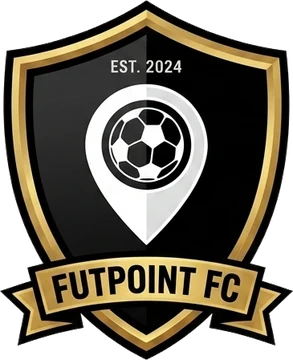
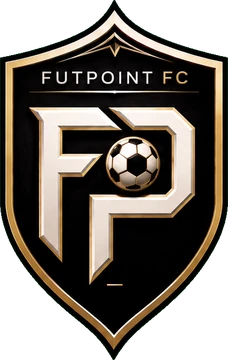
Futpoint FC de cara nova: escudo, mascote e camisa novos (arte do dono)
O dono do Futpoint FC (gfpicolo13, SOCIO n.27 — nao e batismo, nao tira o lugar de
ninguem) mandou a prancha refeita. Recortada com o script novo e cadastrada nos
lugares de sempre. AINDA NAO PUBLICADO NA MAIN: esperando o OK visual do Diego.

O QUE ENTROU
- escudo 228x360 (17,7 KB) — saiu o alfinete de mapa, entrou o brasao preto/dourado
  com o monograma FP em prata;
- mascote 285x440 (39,0 KB) — o Pontinho refeito, de bone virado e pe na bola;
  TOTAL 56,7 KB dos 75 KB do teto;
- camisa da Loja como futpoint-camisa-v2.webp. O NOME MUDOU DE PROPOSITO: public/
  tem endereco fixo, sem hash, e quem ja abriu a Loja continuaria vendo a velha
  pra sempre (a licao do Neymarzetti, 16/09). O npm run salao avisa exatamente isso.

MANTO REMEDIDO NA CAMISA NOVA
Preto #0C0909 e dourado #BE8F47: a arte nova CONFIRMOU a cor que o jogo ja usava
(#181818/#B89040, com o preto levantado de proposito — preto de cena escura na
listra fininha do jogo le como buraco). O branco da faixa central foi remedido pra
#EAE2E0 (era #FFFFFF chutado em 19/08).
E o MANTO_CONTAS ganhou a linha do e-mail dele, que faltava desde sempre — e por
isso o npm run batismos cobrava "manto medido" no Futpoint. Agora: 45 completos.

MARCA DE TERCEIRO QUE SAIU
A mascote vinha com o simbolo da Nike nas duas chuteiras. E marca de outra empresa
e ia DENTRO do arquivo que todo jogador baixa (e que carimba o gol), entao saiu
(scripts/tira-marcas-futpoint.py). Ficou a chuteira preta, o friso e as travas
[…]

diff --git a/src/escalacao/manto.ts b/src/escalacao/manto.ts
@@ -30,6 +30,17 @@ export const MANTO_CONTAS: Record<string, [string, string]> = {
   //    metade iluminada), que é o tom de areia do pano — o do escudo é mais claro
   //    porque ali é letra. Os dois medidos, nenhum chutado.
   'lucasigorbortoliniii@hotmail.com': ['#04512A', '#E4CDA6'],
+  // 📍 Futpoint FC — PRETO e DOURADO. O manto dele vivia só na lista pública
+  // (`batismos.ts`), e por isso o `npm run batismos` cobrava "manto medido" desde
+  // sempre: aqui a chave é o E-MAIL, e é esta lista que decora a tela do PRÓPRIO
+  // dono. Em 19/09 o dono mandou a prancha nova e eu REMEDI na camisa dela:
+  // preto #0C0909 e dourado #BE8F47 — ou seja, a arte nova CONFIRMOU a cor que o
+  // jogo já usava. Fica #181818/#B89040 (o mesmo par de `batismos.ts`, que o
+  // `npm run batismos` exige igual): o preto é levantado de propósito, porque
+  // #0C0909 é preto de cena escura e na listra fininha do jogo lê como buraco.
+  // ⚠ O BANCO GANHA DO CÓDIGO: `meuManto()` lê `esc_socios` primeiro. Se a linha
+  //    dele no banco tiver outra cor, é ela que ele vê — conferir lá também.
+  'gfpicolo13@gmail.com': ['#181818', '#B89040'],
   'luizguilhermeps@hotmail.com': ['#F6BB06', '#053F42'], // 🧦 Jurubeba FC — amarelo e verde-petróleo, MEDIDOS na camisa que o dono mandou (02/09)
   'caiohcris@gmail.com': ['#084C2C', '#F3F1EC'], // 🐟 Bagres 1993 — verde-mato e branco, MEDIDOS na camisa que o dono mandou (mediana dos verdes e dos brancos do manto, 06/09). O DOURADO é a 3ª cor, em MANTO_TRI: é a moldura, a coroa e o louro do escudo. ❤ São Paulo (o Diego confirmou em 19/09)
   'guiouriques@hotmail.com': ['#2186D9', '#080809'], // 🪟 Vidraceiro FC — azul-vidro e preto, MEDIDOS na camisa que o dono mandou (mediana dos azuis e dos pretos do manto, 05/09). O BRANCO é a 3ª cor, em MANTO_TRI: a camisa é listrada azul/preto com filete branco
@@ -176,7 +187,7 @@ const MANTO_TRI: Record<string, string> = {
   toka: '#013088', // 🧢 Tôka10 — 3ª cor AZUL: a touca (que é o escudo) e o calção, medidos na arte dele (16/09)
   piloto_bola: '#FFFFFF', // 🏎 Ferrari SC (adriano) — 3ª cor BRANCA (vermelho/preto/branco)
   cobra_arruda: '#B91515', // 🐍 Tricolor do Arruda FC (Geovany Souza) — 3ª cor VERMELHA (preto/branco/vermelho). 09/09: MEDIDA na camisa nova que o dono mandou (era #C2001E chutado em 16/08); preto #110D0E e branco #F5F2EF foram pro banco (esc_socios)
-  futpoint_bola: '#FFFFFF', // 📍 Futpoint FC (gfpicolo13) — 3ª cor BRANCA (preto/dourado/branco, medidas na camisa dele, 19/08)
+  futpoint_bola: '#EAE2E0', // 📍 Futpoint FC (gfpicolo13) — 3ª cor BRANCA: a faixa do meio da camisa. REMEDIDA na prancha nova do dono (19/09; era #FFFFFF de 19/08) — branco de pano, não branco de papel
   saoluiz_pitbull: '#D9D9D8', // 🐶 São Luiz FC — 3ª cor BRANCA, REMEDIDA na camisa NOVA do dono (26% do manto, 16/09; era #FFFFFF chutado em 21/08)
   bagres_bagre: '#D9A95D', // 🐟 Bagres 1993 (caiohcris) — 3ª cor DOURADA: a moldura, a coroa e o louro do escudo (medidas na arte dele, 06/09)
   vidraceiro_vidro: '#FFFFFF', // 🪟 Vidraceiro FC (guiouriques) — 3ª cor BRANCA: a camisa é listrada azul/preto com filete branco (medidas na arte dele, 05/09)

diff --git a/src/escalacao/mascotes.tsx b/src/escalacao/mascotes.tsx
@@ -303,8 +303,15 @@ export const MASCOTES: Record<string, ReactNode> = {
   marreco_rei: (
     <img src={marrecoMascoteImg} height={176} width={Math.round(176 * 321 / 440)} alt="O Rei do Cais — Marreco FC" style={{ flex: 'none', display: 'block', objectFit: 'contain' }} />
   ),
+  // 🔁 O PONTINHO GANHOU ARTE NOVA em 19/09 (mesma personagem, desenho refeito
+  // pelo dono): bola de boné virado, moletom preto e dourado, joinha e a plaquinha
+  // de play na mão, com o pé em cima da bola.
+  // ⚠ SAIU DA ARTE o símbolo da NIKE das duas chuteiras (`scripts/tira-marcas-
+  //    futpoint.py`): é marca de outra empresa e ia dentro do arquivo que TODO
+  //    jogador baixa. O que ficou é a chuteira preta, o friso e as travas douradas.
+  // 📏 285×440, 39,0 KB. mascote_key segue "futpoint_bola".
   futpoint_bola: (
-    <img src={futpointMascoteImg} height={176} width={Math.round(176 * 310 / 440)} alt="O Pontinho — Futpoint FC" style={{ flex: 'none', display: 'block', objectFit: 'contain' }} />
+    <img src={futpointMascoteImg} height={176} width={Math.round(176 * 285 / 440)} alt="O Pontinho — Futpoint FC" style={{ flex: 'none', display: 'block', objectFit: 'contain' }} />
   ),
   bigao: (
     <img src={bigaoMascoteImg} height={176} width={Math.round(176 * 319 / 440)} alt="O Bigão — Crias do Bigão" style={{ flex: 'none', display: 'block', objectFit: 'contain' }} />

diff --git a/src/escalacao/escudos.tsx b/src/escalacao/escudos.tsx
@@ -566,8 +566,14 @@ const marrecoEscudoRender = (size: number) => (
   <img src={marrecoEscudoImg} height={size} width={Math.round(size * 241 / 360)} alt="Marreco FC" style={{ flex: 'none', display: 'block', objectFit: 'contain' }} />
 )
 
+// 🔁 ESCUDO NOVO em 19/09: o dono mandou a prancha refeita (escudo, mascote e
+// camisa). Saiu o alfinete de mapa e entrou o brasão preto/dourado com o
+// monograma "FP" em prata e a bolinha no meio do P. O arquivo é o MESMO endereço
+// (`futpoint-escudo.webp`) porque arte de dentro do jogo leva carimbo do Vite —
+// cache não segura. A do SALÃO é que precisou de nome novo (ver salao-camisas).
+// 📏 228×360, 17,7 KB — a largura sai da proporção REAL (antes era 293×360).
 const futpointEscudoRender = (size: number) => (
-  <img src={futpointEscudoImg} height={size} width={Math.round(size * 293 / 360)} alt="Futpoint FC" style={{ flex: 'none', display: 'block', objectFit: 'contain' }} />
+  <img src={futpointEscudoImg} height={size} width={Math.round(size * 228 / 360)} alt="Futpoint FC" style={{ flex: 'none', display: 'block', objectFit: 'contain' }} />
 )
 
 // 🤡🟡⚫ Nata de SP (pedrinhocamisa8) — ex-Paris São Geraldo, Série D. Escudo

diff --git a/src/escalacao/salao-camisas.ts b/src/escalacao/salao-camisas.ts
@@ -19,7 +19,10 @@ export const CAMISAS_SALAO: Record<string, string> = {
   "Corporação Capsule FC": "capsule-camisa.webp",
   "Fala D10": "falad10-camisa.webp",
   "Final Boss FC": "finalboss-camisa.webp",
-  "Futpoint FC": "futpoint-camisa.webp",
+  // 🔁 19/09: camisa NOVA (o dono refez a prancha). O nome do arquivo mudou de
+  // propósito — endereço fixo é cache de navegador, e quem já tinha aberto a Loja
+  // continuaria vendo a camisa velha pra sempre. É o aviso que o `npm run salao` dá.
+  "Futpoint FC": "futpoint-camisa-v2.webp",
   "Marreco FC": "marreco-camisa-v1.webp",
   "Rei da Bola FC": "reidabola-camisa-v1.webp",
   "Murriz FC": "murriz-camisa-v1.webp",

diff --git a/scripts/recorta-prancha-chroma.py b/scripts/recorta-prancha-chroma.py
@@ -1,0 +1,90 @@
+#!/usr/bin/env python3
+# ─── ✂🟩 RECORTE DE PRANCHA SOBRE FUNDO VERDE (chroma) ─────────────────────
+#
+# Os donos mandam a arte do clube como UMA prancha só — escudo + mascote +
+# camisa lado a lado — e cada vez mais sobre FUNDO VERDE CHROMA (#01F748), não
+# transparente. Este é o recorte genérico; nasceu do `recorta-marreco.py`
+# (19/09) e virou script de todo mundo no Futpoint FC, no mesmo dia.
+#
+# O que ele faz, e por quê cada passo existe:
+#  1. 🎯 ALVO SÓ O VERDE CHROMA — claro (g > 150) e absurdamente mais verde que
+#     vermelho/azul. Clube verde-escuro (o Marreco é) e grama passam longe.
+#     Se um dia chegar clube com verde CLARO no desenho, baixar o corte NÃO é a
+#     saída: aí é máscara na mão. Este script avisa se o fundo detectado é menos
+#     de 20% do quadro (sinal de que o chroma não é o que ele pensa).
+#  2. 🕳 APAGA O VERDE PRESO TAMBÉM (entre pernas, alças, vãos fechados). Inundar
+#     só a partir da borda deixou um BLOCO VERDE entre as pernas do marreco —
+#     o mesmo erro do Skyy FC (23/08), o retângulo entre as pernas da águia.
+#  3. 💨 TIRA O DERRAME: a franja esverdeada que o chroma deixa na borda do
+#     desenho (some no branco da bola e no dourado, que é onde mais aparece).
+#  4. ✂ SEPARA AS PEÇAS POR DESENHO, não por régua: as N maiores ILHAS são os
+#     corpos, e cada pedacinho solto (o balão, a bola no pé, os riscos de
+#     expressão) vai pro corpo que o cobre na horizontal. Cortar em faixas fixas
+#     levava um naco do escudo junto com a mascote.
+#  5. 📏 Mede a caixa com alfa ≥ 40 e pelo menos 3 px na linha/coluna: o bbox CRU
+#     MENTE (erro do Papão, 23/08) — poeira de alfa devolve o arquivo inteiro.
+#
+# uso: python3 scripts/recorta-prancha-chroma.py <prancha.png> <pasta> <prefixo> [nomes...]
+#      (nomes padrão: escudo mascote camisa — na ordem da esquerda pra direita)
+import sys
+import numpy as np
+import cv2
+from PIL import Image
+
+ORIG, SAIDA, PREFIXO = sys.argv[1], sys.argv[2], sys.argv[3]
+NOMES = sys.argv[4:] or ['escudo', 'mascote', 'camisa']
+
+im = np.array(Image.open(ORIG).convert('RGB')).astype(np.int16)
+H, W, _ = im.shape
+r, g, b = im[:, :, 0], im[:, :, 1], im[:, :, 2]
+
+# 1⃣ + 2⃣ o fundo é TODO o verde chroma, preso ou não
+chroma = (g > 150) & (g - r > 80) & (g - b > 60)
+pct = 100 * chroma.mean()
+print(f'fundo chroma: {pct:.1f}% do quadro')
+assert pct >= 20, f'só {pct:.1f}% de chroma — esta prancha não parece ter fundo verde'
+alfa = np.where(chroma, 0, 255).astype(np.uint8)
+
+# 3⃣ DERRAME: na faixa que encosta no fundo, puxa o verde pro nível do maior dos
+#    outros canais. Tira a franja sem lavar verde-escuro de desenho.
+rgb = im.copy()
+borda = cv2.dilate(chroma.astype(np.uint8), np.ones((5, 5), np.uint8)) > 0
+borda &= ~chroma
+teto = np.maximum(rgb[:, :, 0], rgb[:, :, 2])
+derrama = borda & (rgb[:, :, 1] > teto + 25)
+rgb[:, :, 1] = np.where(derrama, teto + 25, rgb[:, :, 1])
+print(f'franja verde limpa em {int(derrama.sum())} px')
+
+# 4⃣ SEPARA POR DESENHO
+n, rot, stats, _ = cv2.connectedComponentsWithStats((alfa >= 40).astype(np.uint8), 8)
+ilhas = [(stats[i, cv2.CC_STAT_LEFT], stats[i, cv2.CC_STAT_TOP],
+          stats[i, cv2.CC_STAT_WIDTH], stats[i, cv2.CC_STAT_HEIGHT],
+          stats[i, cv2.CC_STAT_AREA], i) for i in range(1, n)]
+ilhas = [x for x in ilhas if x[4] >= 300]          # poeira fora
+
+K = len(NOMES)
+corpos = sorted(sorted(ilhas, key=lambda x: -x[4])[:K], key=lambda x: x[0])
+assert len(corpos) == K, f'esperava {K} peças, achei {len(corpos)} — conferir a prancha'
+grupos = [{'x0': c[0], 'x1': c[0] + c[2], 'y0': c[1], 'y1': c[1] + c[3], 'idx': [c[5]]} for c in corpos]
+for x0, y0, w, h, a_, idx in ilhas:
+    if any(idx in gp['idx'] for gp in grupos):
+        continue
+    cx = x0 + w / 2
+    dono = next((gp for gp in grupos if gp['x0'] - 12 <= cx <= gp['x1'] + 12), None)
+    if dono is None:
+        dono = min(grupos, key=lambda gp: abs((gp['x0'] + gp['x1']) / 2 - cx))
+    dono['idx'].append(idx)
+print(f'peças: {len(grupos)}  ·  pedaços soltos distribuídos: {len(ilhas) - K}')
+
+for nome, gp in zip(NOMES, grupos):
+    so = np.isin(rot, gp['idx'])
+    a2 = np.where(so, alfa, 0)
+    m = a2 >= 40
+    lin = np.where(m.sum(axis=1) >= 3)[0]
+    col = np.where(m.sum(axis=0) >= 3)[0]
+    y0, y1, x0, x1 = lin[0], lin[-1] + 1, col[0], col[-1] + 1
+    peca = np.dstack([rgb[y0:y1, x0:x1].astype(np.uint8), a2[y0:y1, x0:x1].astype(np.uint8)])
+    img = Image.fromarray(peca)
+    img.save(f'{SAIDA}/{PREFIXO}-{nome}-cru.png')
+    cheio = (a2[y0:y1, x0:x1] >= 40).mean()
+    print(f'{nome}: {img.width}x{img.height} · desenho ocupa {100 * cheio:.0f}% da caixa')

diff --git a/scripts/tira-marcas-futpoint.py b/scripts/tira-marcas-futpoint.py
@@ -1,0 +1,83 @@
+#!/usr/bin/env python3
+# ─── 👟❌ TIRA AS MARCAS DE TERCEIRO DA ARTE DO FUTPOINT FC (19/09) ──────────
+#
+# A arte que o dono mandou veio com o **símbolo da Nike nas duas chuteiras** da
+# mascote (o risco branco com o contorno dourado). É marca registrada de outra
+# empresa e ia entrar no jogo dentro do arquivo do mascote, visto por todo
+# jogador — então sai, como já saiu o letreiro da bola de ouro.
+# 👉 O QUE SAI: só o risco (branco + o dourado colado nele).
+# 👉 O QUE FICA: a chuteira preta inteira, o friso dourado da sola, as travas
+#    douradas, o cadarço, o "FP" do calcanhar — nada disso é da Nike.
+#
+# 🧵 COMO APAGA: não é borrão. O couro ali é preto com brilho e grão fino, e o
+#    que funciona é RECONSTRUIR: ajusta uma superfície quadrática nos pixels
+#    ESCUROS de couro em volta da janela, repinta por cima com o mesmo grão e
+#    desvanece na margem. Mesma receita que apagou o letreiro da bola de ouro
+#    (19/09) e a coroa do peito da camisa do Marreco.
+#
+# uso: python3 scripts/tira-marcas-futpoint.py <mascote.png> <saida.png>
+import sys
+import numpy as np
+import cv2
+from PIL import Image
+
+ORIG, SAIDA = sys.argv[1], sys.argv[2]
+im = np.array(Image.open(ORIG).convert('RGBA'))
+rgb, alfa = im[:, :, :3].astype(np.float32), im[:, :, 3]
+H, W = alfa.shape
+assert (W, H) == (510, 787), f'janelas medidas no recorte 510x787; veio {W}x{H} — remedir antes'
+
+# as duas janelas, medidas na lupa (x0, y0, x1, y1)
+JANELAS = [
+    ('chuteira de trás', 326, 592, 405, 631),
+    ('chuteira da frente', 136, 697, 194, 751),
+]
+
+out = rgb.copy()
+
+yy, xx = np.mgrid[0:H, 0:W].astype(np.float32)
+
+for nome, X0, Y0, X1, Y1 in JANELAS:
+    alvo = np.zeros((H, W), bool)
+    alvo[Y0:Y1, X0:X1] = True
+
+    # o couro LIMPO em volta: anel de 22 px, só o que é escuro (couro) e opaco.
+    # Dourado e branco de fora ficam de fora do ajuste pra não puxar cor.
+    viz = np.zeros((H, W), bool)
+    viz[max(0, Y0 - 22):min(H, Y1 + 22), max(0, X0 - 22):min(W, X1 + 22)] = True
+    v = out.max(axis=2)
+    limpos = viz & ~alvo & (alfa >= 200) & (v < 95)
+    print(f'{nome}: couro usado no ajuste = {int(limpos.sum())} px')
+    assert limpos.sum() >= 400, 'couro de menos em volta — conferir a janela'
+
+    cx, cy = (X0 + X1) / 2, (Y0 + Y1) / 2
+    Xn, Yn = (xx - cx) / 40.0, (yy - cy) / 40.0
+    base = [np.ones_like(Xn), Xn, Yn, Xn * Xn, Xn * Yn, Yn * Yn]
+    A = np.stack([bb[limpos] for bb in base], axis=1)
+
+    # 🪶 desvanece na margem (cheio no miolo, suave na beirada)
+    nucleo = np.zeros((H, W), np.uint8)
+    nucleo[Y0 + 4:Y1 - 4, X0 + 4:X1 - 4] = 255
+    mist = np.maximum(cv2.GaussianBlur(alvo.astype(np.float32), (0, 0), 3.0),
+                      nucleo.astype(np.float32) / 255.0)
+    mist = np.clip(cv2.GaussianBlur(mist, (0, 0), 1.1), 0, 1)[..., None]
+
+    # ⚠ AQUI **NÃO ENTRA GRÃO** — e isso é o contrário do que fizemos na bola de
+    #    ouro e na coroa do Marreco. Lá o fundo era pano claro com grão visível;
+    #    aqui é couro PRETO, onde o grão que a conta estima vem dos vincos e do
+    #    brilho da chuteira, não do grão de verdade. Com ruído, as duas janelas
+    #    viraram dois retângulos CHUVISCADOS bem visíveis (testei: colorido, feio).
+    #    Só a superfície já fecha sem emenda — conferido na lupa 3×.
+    novo = np.empty_like(out)
+    for c in range(3):
+        coef, *_ = np.linalg.lstsq(A, out[:, :, c][limpos], rcond=None)
+        novo[:, :, c] = np.clip(sum(k * bb for k, bb in zip(coef, base)), 0, 255)
+    out = np.clip(novo * mist + out * (1 - mist), 0, 255)
+
+    # confere que não sobrou branco nem dourado dentro da janela
+    r2, g2, b2 = out[:, :, 0], out[:, :, 1], out[:, :, 2]
+    sobra = int((((r2 > 150) & (g2 > 140)) & alvo).sum())
+    print(f'{nome}: branco/dourado que sobrou = {sobra} px')
+
+Image.fromarray(np.dstack([out.astype(np.uint8), alfa])).save(SAIDA)
+print(f'salvo: {SAIDA}')

diff --git a/scripts/opcao-botao-futpoint.py b/scripts/opcao-botao-futpoint.py
@@ -1,0 +1,64 @@
+#!/usr/bin/env python3
+# ─── ▶ O BOTÃO DE PLAY DA MÃO DO PONTINHO — versão nas cores do clube ───────
+#
+# A arte nova do Futpoint FC (19/09) tem a mascote segurando o **botão vermelho
+# do YouTube**. É a marca de outra empresa, e ela iria dentro do arquivo do
+# mascote, que todo jogador baixa e vê (inclusive no carimbo de gol).
+# Este script faz a OPÇÃO B pro Diego escolher: o mesmo botão, mesma pose, mesma
+# mão — só que **dourado com o play preto**, que são as cores do próprio clube
+# (preto/dourado/branco). Não muda desenho nenhum: só troca a cor.
+#
+# uso: python3 scripts/opcao-botao-futpoint.py <mascote.png> <saida.png>
+import sys
+import numpy as np
+import cv2
+from PIL import Image
+
+ORIG, SAIDA = sys.argv[1], sys.argv[2]
+im = np.array(Image.open(ORIG).convert('RGBA'))
+rgb, alfa = im[:, :, :3].astype(np.float32), im[:, :, 3]
+H, W = alfa.shape
+r, g, b = rgb[:, :, 0], rgb[:, :, 1], rgb[:, :, 2]
+
+# 1⃣ acha o botão: a ilha VERMELHA grande (não existe outro vermelho no desenho
+#    fora a língua, que é bem menor e fica colada na boca)
+# ⚠ o corte tem que pegar TAMBÉM o vermelho ESCURO da sombra embaixo do botão
+#    (r ≈ 90): com corte alto sobrava uma tirinha vermelha na barra de baixo.
+verm = ((alfa >= 200) & (r > 60) & (r - g > 35) & (r - b > 35)).astype(np.uint8)
+verm = cv2.morphologyEx(verm, cv2.MORPH_CLOSE, np.ones((5, 5), np.uint8))
+n, rot, st, _ = cv2.connectedComponentsWithStats(verm, 8)
+i = max(range(1, n), key=lambda k: st[k, cv2.CC_STAT_AREA])
+X0, Y0, w, h = st[i, 0], st[i, 1], st[i, 2], st[i, 3]
+print(f'botão achado: {w}x{h} em x {X0}..{X0 + w} · y {Y0}..{Y0 + h} ({st[i, cv2.CC_STAT_AREA]} px)')
+assert st[i, cv2.CC_STAT_AREA] > 3000, 'ilha vermelha pequena demais pra ser o botão'
+
+# 2⃣ a caixa do botão = o vermelho + o buraco de dentro (o triângulo branco)
+caixa = np.zeros((H, W), bool)
+caixa[Y0:Y0 + h, X0:X0 + w] = True
+tile = (rot == i)
+# ⚠ fechamento morfológico NÃO serve pra achar o play: ele tapa só um pedaço do
+#    triângulo e a ponta de baixo continuava branca. O que fecha é preencher o
+#    CONTORNO do botão e tirar o vermelho — sobra exatamente o buraco de dentro.
+cont, _ = cv2.findContours(tile.astype(np.uint8), cv2.RETR_EXTERNAL, cv2.CHAIN_APPROX_SIMPLE)
+cheio = np.zeros((H, W), np.uint8)
+cv2.drawContours(cheio, cont, -1, 255, cv2.FILLED)
+tri = (cheio > 0) & ~tile & caixa        # o play branco no meio
+
+# 3⃣ 🟡 o vermelho vira DOURADO do clube (#B89040) guardando o sombreado: a luz
+#    do desenho é o brilho do vermelho, então ela é reaproveitada como brilho do
+#    dourado — nada é repintado chapado.
+OURO = np.array([184, 144, 64], np.float32)
+out = rgb.copy()
+lum = (r * 0.5 + g * 0.3 + b * 0.2)
+ref = float(np.median(lum[tile]))
+fator = np.clip(lum / max(ref, 1.0), 0.40, 1.75)[..., None]   # guarda o brilho do plástico
+sel = tile[..., None]
+out = np.where(sel, np.clip(OURO * fator, 0, 255), out)
+
+# 4⃣ ⬛ o play branco vira PRETO (contraste em cima do dourado)
+selt = tri[..., None]
+escuro = np.clip(np.array([12, 12, 12], np.float32) + (lum[..., None] - 230) * 0.10, 0, 60)
+out = np.where(selt, escuro, out)
+
+Image.fromarray(np.dstack([out.astype(np.uint8), alfa])).save(SAIDA)
+print(f'salvo: {SAIDA}  ·  tile {int(tile.sum())} px · play {int(tri.sum())} px')

diff --git a/docs/pendencias.md b/docs/pendencias.md
@@ -1,3 +1,49 @@
+## 19/09/2026 (parte 16) — 📍 Futpoint FC de CARA NOVA (arte que o dono refez)
+
+Ele mandou a prancha nova do **Futpoint FC** (gfpicolo13, **SÓCIO nº27** — não é
+batismo, não tira o lugar de ninguém): escudo, mascote e camisa, tudo redesenhado.
+Recorte, peso e cadastro feitos; **esperando o OK visual dele pra publicar**.
+
+### ✅ O que ficou pronto (no branch)
+- **Escudo novo** 228×360 · 17,7 KB (saiu o alfinete de mapa, entrou o brasão
+  preto/dourado com o monograma FP em prata). **Mascote novo** 285×440 · 39,0 KB —
+  **total 56,7 KB** dos 75 do teto.
+- **Camisa nova na Loja** como `futpoint-camisa-v2.webp`: nome novo de propósito,
+  porque `public/` tem endereço fixo e quem já abriu a Loja veria a velha pra
+  sempre (a lição do Neymarzetti, 16/09).
+- **Manto REMEDIDO na camisa nova**: preto `#0C0909` e dourado `#BE8F47` — ou seja,
+  a arte nova **confirmou** a cor que o jogo já usa (`#181818`/`#B89040`, com o
+  preto levantado de propósito pra listra fininha não virar buraco). O branco da
+  faixa foi remedido pra `#EAE2E0` (era `#FFFFFF` chutado em 19/08).
+- **`MANTO_CONTAS` ganhou a linha dele** (`gfpicolo13@gmail.com`), que faltava
+  desde sempre: a chave lá é o E-MAIL e é ela que decora a tela do próprio dono.
+  Por isso o `npm run batismos` cobrava "manto medido" no Futpoint — agora são
+  **45 completos** (era 44).
+- **Recorte virou script de todo mundo**: `scripts/recorta-prancha-chroma.py`
+  (o do Marreco era só do Marreco). Prancha sobre fundo verde é o padrão agora.
+
+### 🚫 Marca de terceiro que SAIU da arte
+A mascote vinha com o **símbolo da Nike nas duas chuteiras**. É marca de outra
+empresa e ia DENTRO do arquivo que todo jogador baixa (e que carimba o gol), então
+saiu — `scripts/tira-marcas-futpoint.py`. Ficou a chuteira preta, o friso e as
+travas douradas. Mesma régua do letreiro da bola de ouro (19/09).
+⚠ **Lição de método**: nessa reconstrução **não se põe grão**. Em pano claro o grão
+salva; em couro PRETO o desvio que a conta estima vem dos vincos e do brilho, e as
+duas janelas viraram dois retângulos chuviscados bem visíveis. Só a superfície fecha.
+
+### ⏳ O que falta (perguntado pro Diego)
+- **▶ O botão de play na mão da mascote** é o do YouTube. Mandei as duas opções:
+  como veio (vermelho) e **dourado com o play preto** (as cores do clube — vira uma
+  plaquinha de ouro, que combina com dono de canal). **Ele escolhe.**
+- **O nome do dono** pro rodapé do post ("CLUBE DE ___"): não invento nome de gente
+  de verdade — está em branco até ele falar.
+- 🗄 **Banco**: `meuManto()` lê `esc_socios` ANTES do código. Se a linha do
+  gfpicolo13 lá tiver outra cor, é ela que ele vê. Conferir junto das linhas do
+  **Marreco FC** (`manto_c1`/`manto_c2`/`mascote_key`/`escudo_time`), que continuam
+  pendentes porque a chamada do Supabase precisa da autorização dele.
+
+---
+
 ## 19/09/2026 (parte 14) — 🥇 A aba da Bola de Ouro no Rank (o que eu tinha ESQUECIDO)
 
 Ele cobriu no ar: *"n tô vendo na área de rank a aba de bola de ouro e nem tô vendo
@@ -696,11 +742,15 @@ porque os guardas rodam offline.
 ❤ Antes disso: **Pesadelo Verde FC é PALMEIRAS** (ordem dele). Gravado em
 `esc_socios.time_coracao` de `portaltech.ep@gmail.com`.
 
-### 🔴 Buraco de verdade — 1 clube
-- **Marreco FC** (lucasigorbortoliniii) — é o único batismo sem **escudo próprio**,
+### ~~🔴 Buraco de verdade — 1 clube~~ ✅ FECHADO em 19/09
+- ~~**Marreco FC** (lucasigorbortoliniii) — é o único batismo sem **escudo próprio**,
   sem **mascote que carimba o gol**, sem **manto** (nem no código nem no banco) e
-  sem **camisa na Loja**. Tem só a vaga na pirâmide, o ouro e o nº de fundador.
-  É o mais atrasado da lista inteira, e de longe.
+  sem **camisa na Loja**.~~ O dono mandou a prancha em 19/09 e as quatro coisas
+  entraram de uma vez (escudo 241×360 · mascote 321×440 · manto `#04512A`/`#E4CDA6`
+  · camisa `marreco-camisa-v1.webp`). **Publicado na main em 19/09.**
+  🗄 **Falta só o BANCO**: `esc_socios` dele (`manto_c1`/`manto_c2`/`mascote_key`/
+  `escudo_time`) ainda não foi gravado, e o banco GANHA do código no manto — sem
+  isso ele continua vendo a cor velha.
 
 ### 🟠 A linha OFICIAL do ouro não existe — 3 clubes
 `user_colors` é a fonte oficial do tier, e **não tem linha nenhuma** pra:
@@ -722,9 +772,9 @@ nunca rodou e **o nome puro está LIVRE pra qualquer um pegar**:
 Conserto: inserir o nome puro em `esc_nomes_batismo` que o gatilho completa sozinho.
 (Os outros 49 estão com as 3+ formas certas.)
 
-### 🎽 Camisa na Loja do Clube — 7 sem arte
+### 🎽 Camisa na Loja do Clube — 6 sem arte (era 7; o Marreco saiu em 19/09)
 Deportivo Montreal · SC Ferrari · Coringas do Diniz · Nata de SP · Sapekeiros FC ·
-Marreco FC · Eros FC. **Não é defeito**: é lista de a-quem-pedir. Todos os 7 já
+Eros FC. **Não é defeito**: é lista de a-quem-pedir. Todos os 7 já
 aparecem com a cor certa na foto do campeão (o manto deles vem do painel).
 
 ### ❤ TIME DE CORAÇÃO — e a conta que eu tinha errado
